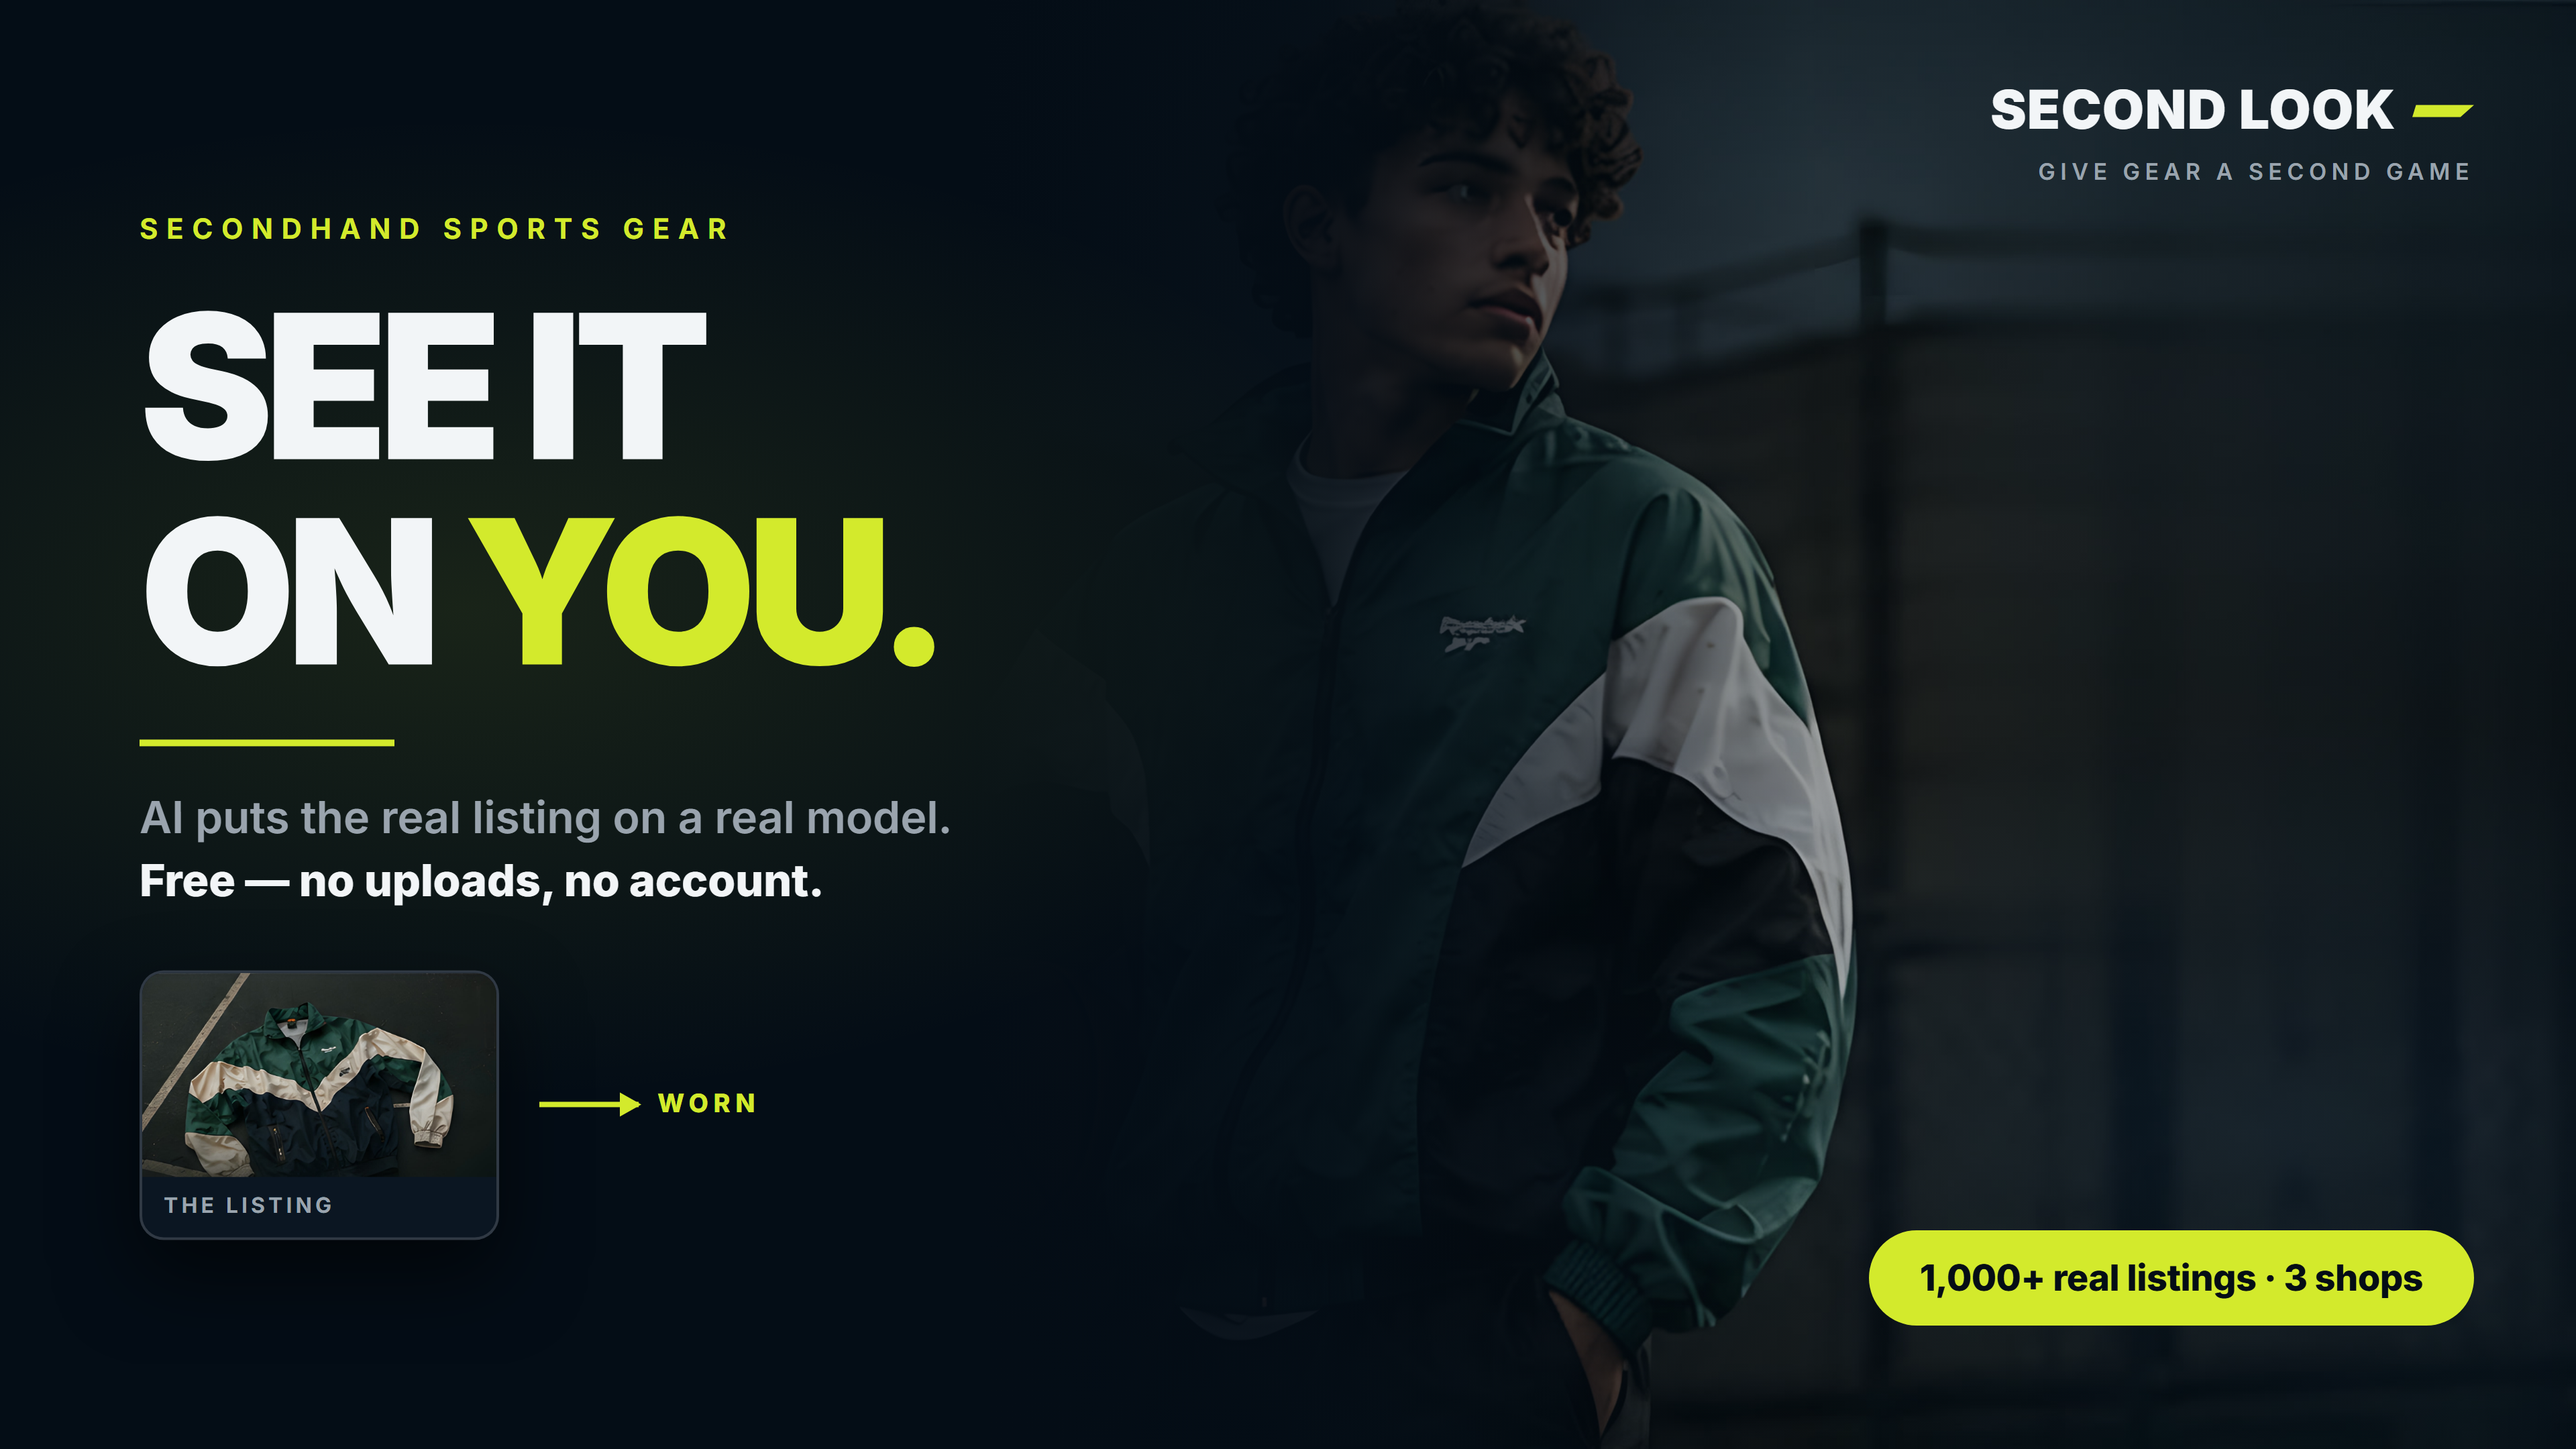
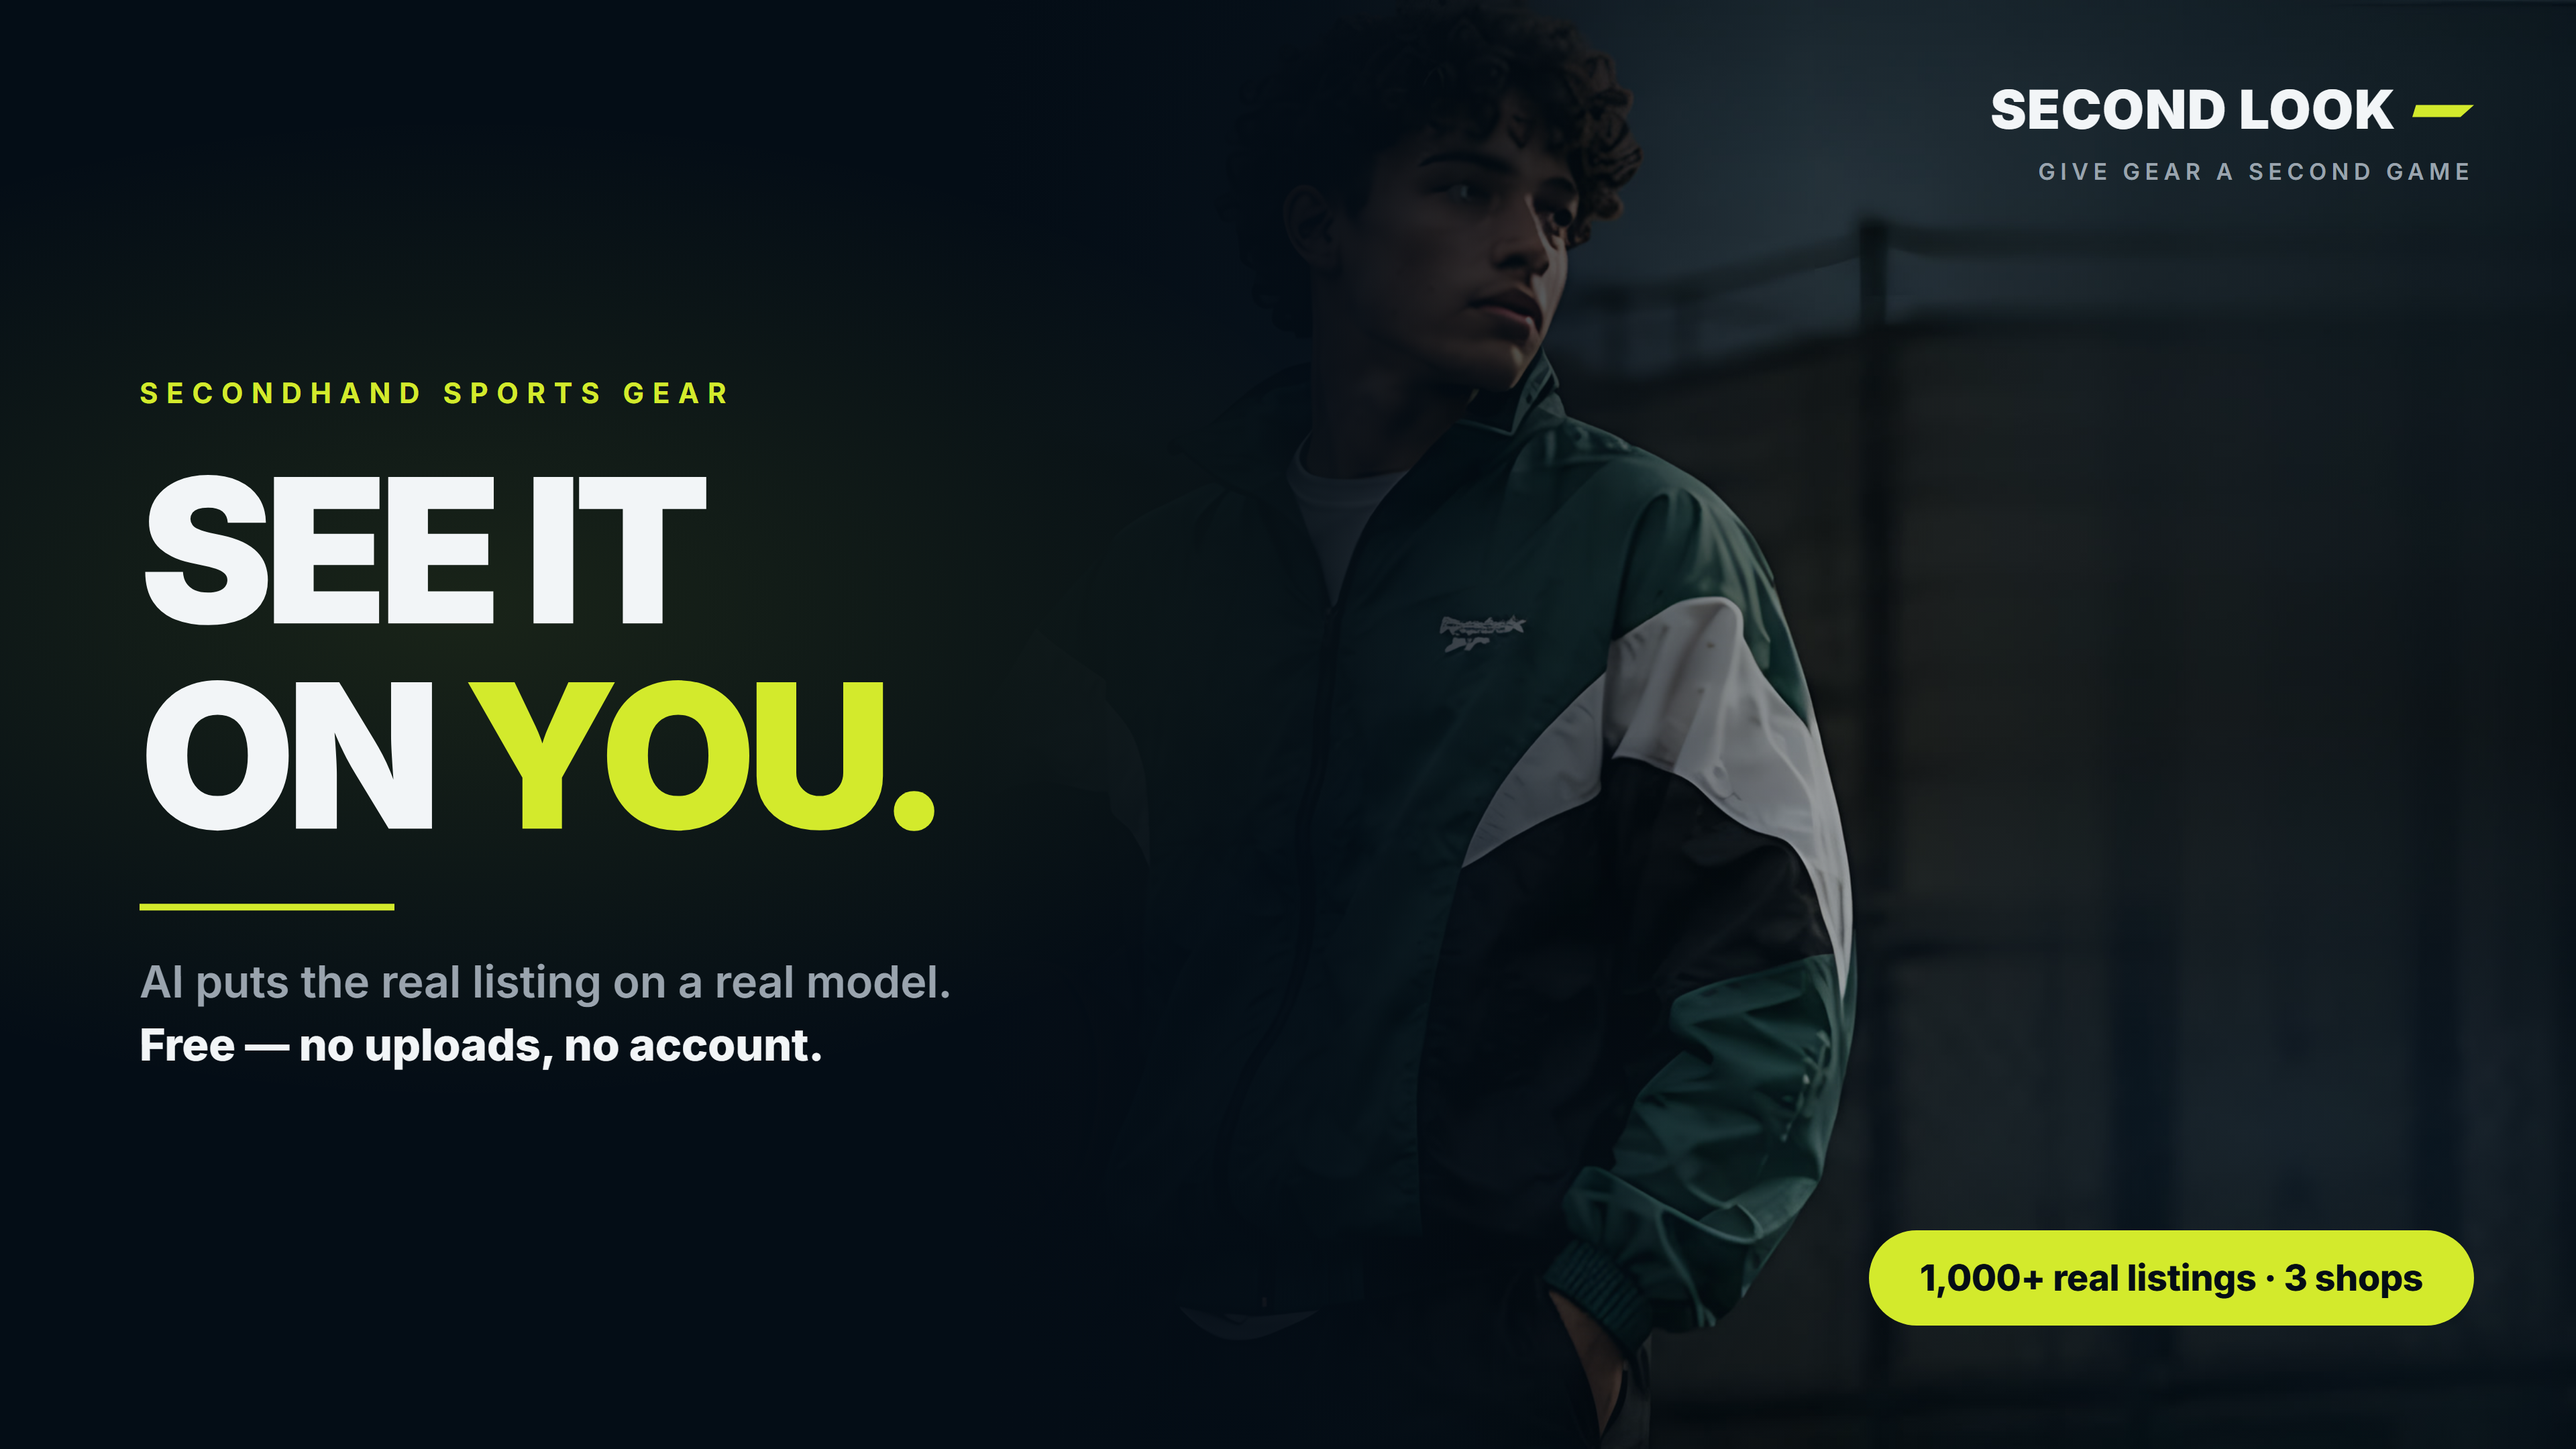
Thumbnail: drop a claim I couldn't stand behind, and hard-floor the bake
The thumbnail paired a flat jacket photo labelled "THE LISTING" with an arrow
to the athlete labelled "WORN". They are not the same jacket — big-reebok.jpg
is green/cream/navy with a chevron sweep, hero-athlete.jpg is green/white/black
with a different panel shape and chest mark. Same brand family, different
garment. On a project whose whole pitch is that nothing is faked, that is the
worst kind of bug, so the inset and arrow are gone. The headline carries it.

Also raise the build-live guard to a hard 1,000 floor. The film and thumbnail
both state "1,000+ real listings", and rejecting only below half the previous
total was too loose to protect that: losing SidelineSwap outright leaves ~929,
which clears prevTotal/2 and would have published a total that makes the claim
false. Verified: 1,000 commits, 999 and 929 keep the previous file.

Changed region(s): [[0.0312, 0.2171, 0.375, 0.8375], [0.0625, 0.1551, 0.2188, 0.1861], [0.25, 0.1551, 0.2812, 0.1861]]

diff --git a/thumb.html b/thumb.html
@@ -13,7 +13,7 @@
   html, body { width: 1920px; height: 1080px; overflow: hidden; }
   body { background: var(--ink); color: var(--text); font-family: Inter, system-ui, sans-serif; position: relative; }
 
-  /* the athlete wearing the exact jacket, full-bleed right */
+  /* real athlete in real gear, full-bleed right */
   .shot { position: absolute; inset: 0 0 0 38%; }
   .shot img { width: 100%; height: 100%; object-fit: cover; object-position: 42% 28%; }
   /* wash the left edge into the ink so the type has clean ground */
@@ -25,7 +25,7 @@
       radial-gradient(60% 55% at 18% 42%, rgba(211,234,44,.10), transparent 62%),
       radial-gradient(50% 45% at 88% 78%, rgba(60,120,180,.12), transparent 64%); }
 
-  /* one flow column, so the before/after row can never land on top of the subtitle */
+  /* one flow column — nothing here is absolutely positioned against anything else */
   .copy { position: absolute; left: 104px; top: 50%; transform: translateY(-50%); width: 900px;
     display: flex; flex-direction: column; align-items: flex-start; }
   .kick {
@@ -37,27 +37,6 @@
   .rule { height: 5px; width: 190px; background: var(--lime); margin: 34px 0 30px; }
   p.sub { font-size: 33px; font-weight: 600; color: var(--text-2); line-height: 1.4; }
   p.sub b { color: var(--text); font-weight: 800; }
-
-  /* the same jacket as a flat listing photo — the "before" half of the promise */
-  .beforerow { display: flex; align-items: center; gap: 30px; margin-top: 44px; }
-  .before {
-    width: 268px; border-radius: 18px; overflow: hidden; border: 2px solid rgba(242,245,247,.16);
-    box-shadow: 0 26px 60px rgba(0,0,0,.6); background: #0b1622;
-  }
-  .before img { display: block; width: 100%; height: 152px; object-fit: cover; }
-  .before span {
-    display: block; padding: 11px 16px 13px; font-size: 16px; font-weight: 700;
-    letter-spacing: .16em; text-transform: uppercase; color: var(--text-2); line-height: 1.3;
-  }
-  .arrow {
-    display: flex; align-items: center; gap: 14px;
-    font-size: 19px; font-weight: 800; letter-spacing: .2em; text-transform: uppercase; color: var(--lime); line-height: 1.4;
-  }
-  .arrow i { display: block; width: 74px; height: 4px; background: var(--lime); position: relative; font-style: normal; }
-  .arrow i::after {
-    content: ''; position: absolute; right: -2px; top: -7px;
-    border-left: 16px solid var(--lime); border-top: 9px solid transparent; border-bottom: 9px solid transparent;
-  }
 
   .wm {
     position: absolute; right: 76px; top: 60px; text-align: right;
@@ -84,14 +63,6 @@
     <h1>See it<br>on <em>you.</em></h1>
     <div class="rule"></div>
     <p class="sub">AI puts the real listing on a real model.<br><b>Free — no uploads, no account.</b></p>
-
-    <div class="beforerow">
-      <div class="before">
-        <img src="img/big-reebok.jpg" alt="">
-        <span>The listing</span>
-      </div>
-      <div class="arrow"><i></i>Worn</div>
-    </div>
   </div>
 
   <div class="wm">SECOND LOOK<em></em><small>Give gear a second game</small></div>

diff --git a/scripts/build-live.js b/scripts/build-live.js
@@ -44,6 +44,15 @@ const TOPICS = [
     console.error('degraded fetch (' + items.length + ' vs previous ' + prevTotal + ') — keeping the previous data file');
     process.exit(0);
   }
+  // the demo film and thumbnail both claim "1,000+ real listings", so the pool is
+  // never allowed to commit below that. Halving alone is too loose to protect it:
+  // losing SidelineSwap outright leaves ~929, which clears prevTotal/2 and would
+  // publish a total that makes the claim false.
+  const CLAIMED_FLOOR = 1000;
+  if (prevTotal && items.length < CLAIMED_FLOOR) {
+    console.error('fetch of ' + items.length + ' is below the claimed floor of ' + CLAIMED_FLOOR + ' — keeping the previous data file');
+    process.exit(0);
+  }
   const prices = items.map((i) => i.price).sort((a, b) => a - b);
   const perStore = {};
   for (const i of items) perStore[i.store] = (perStore[i.store] || 0) + 1;
